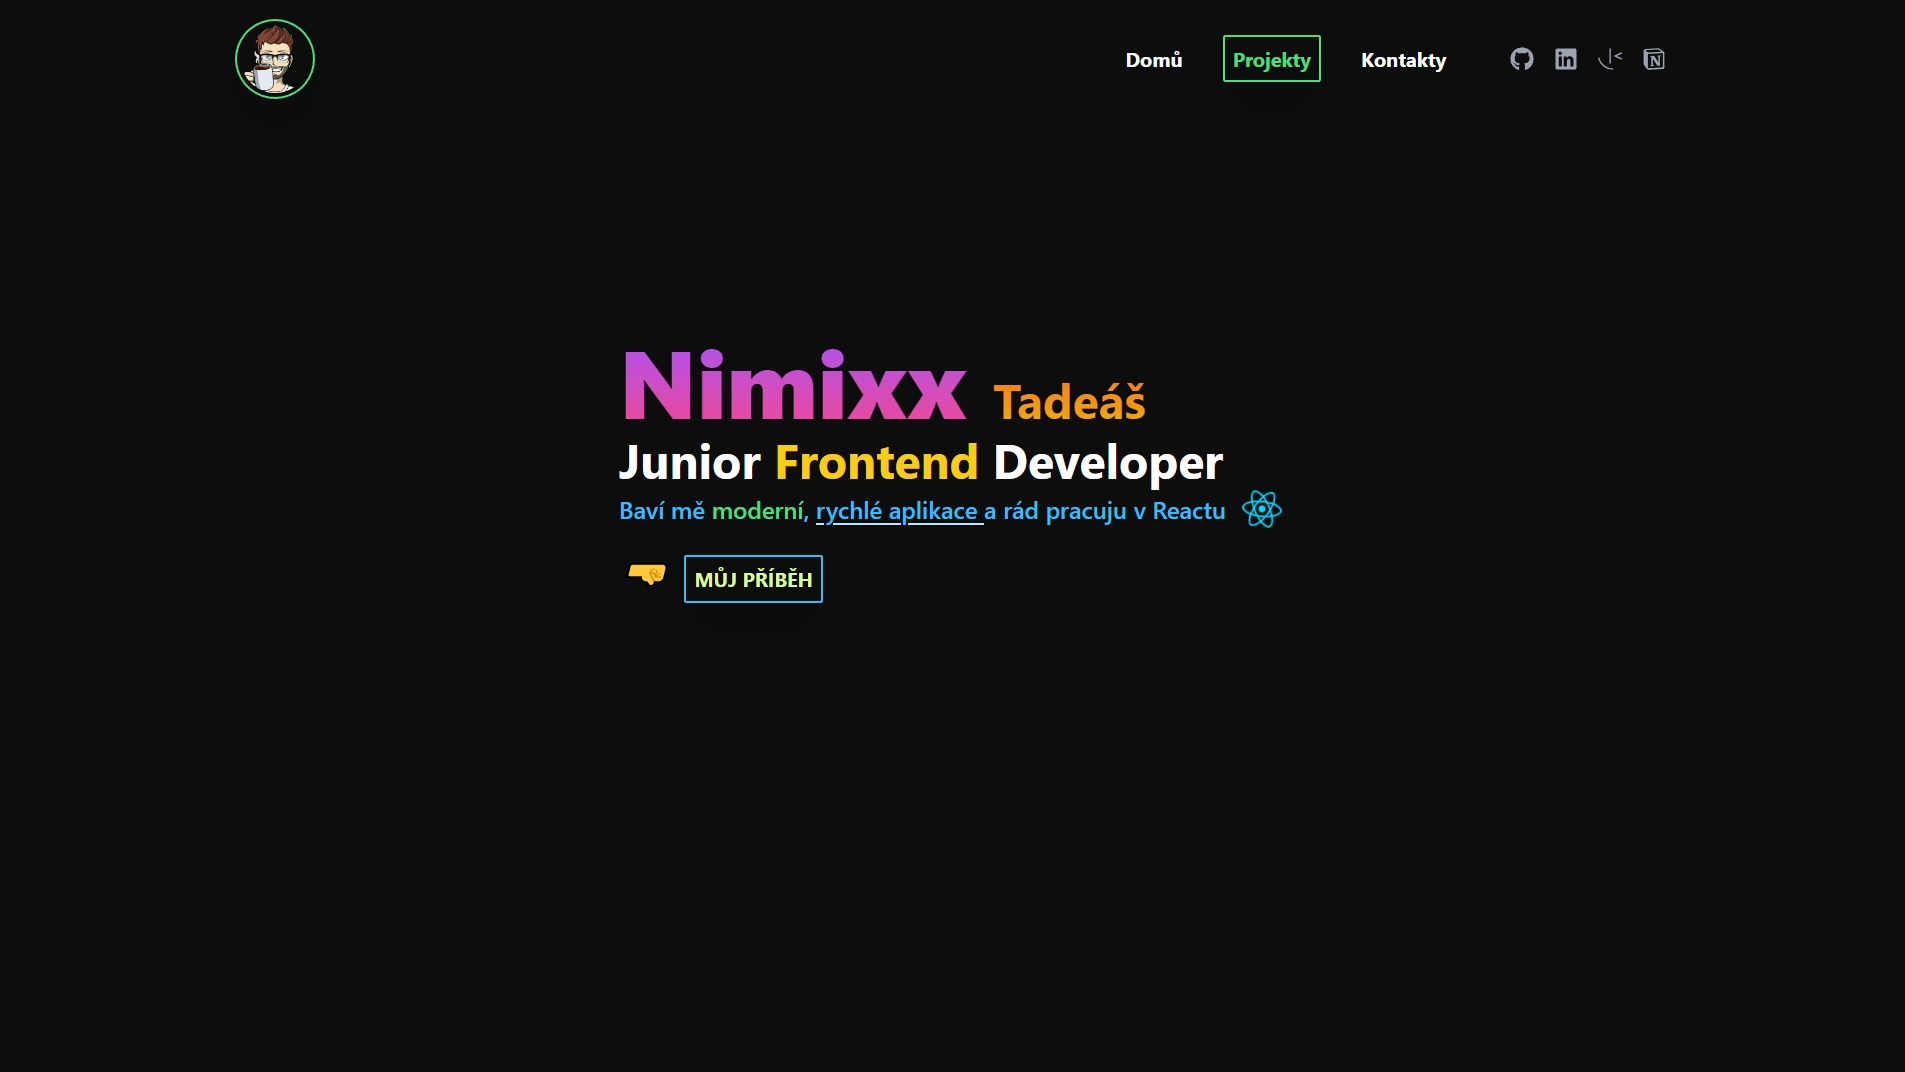
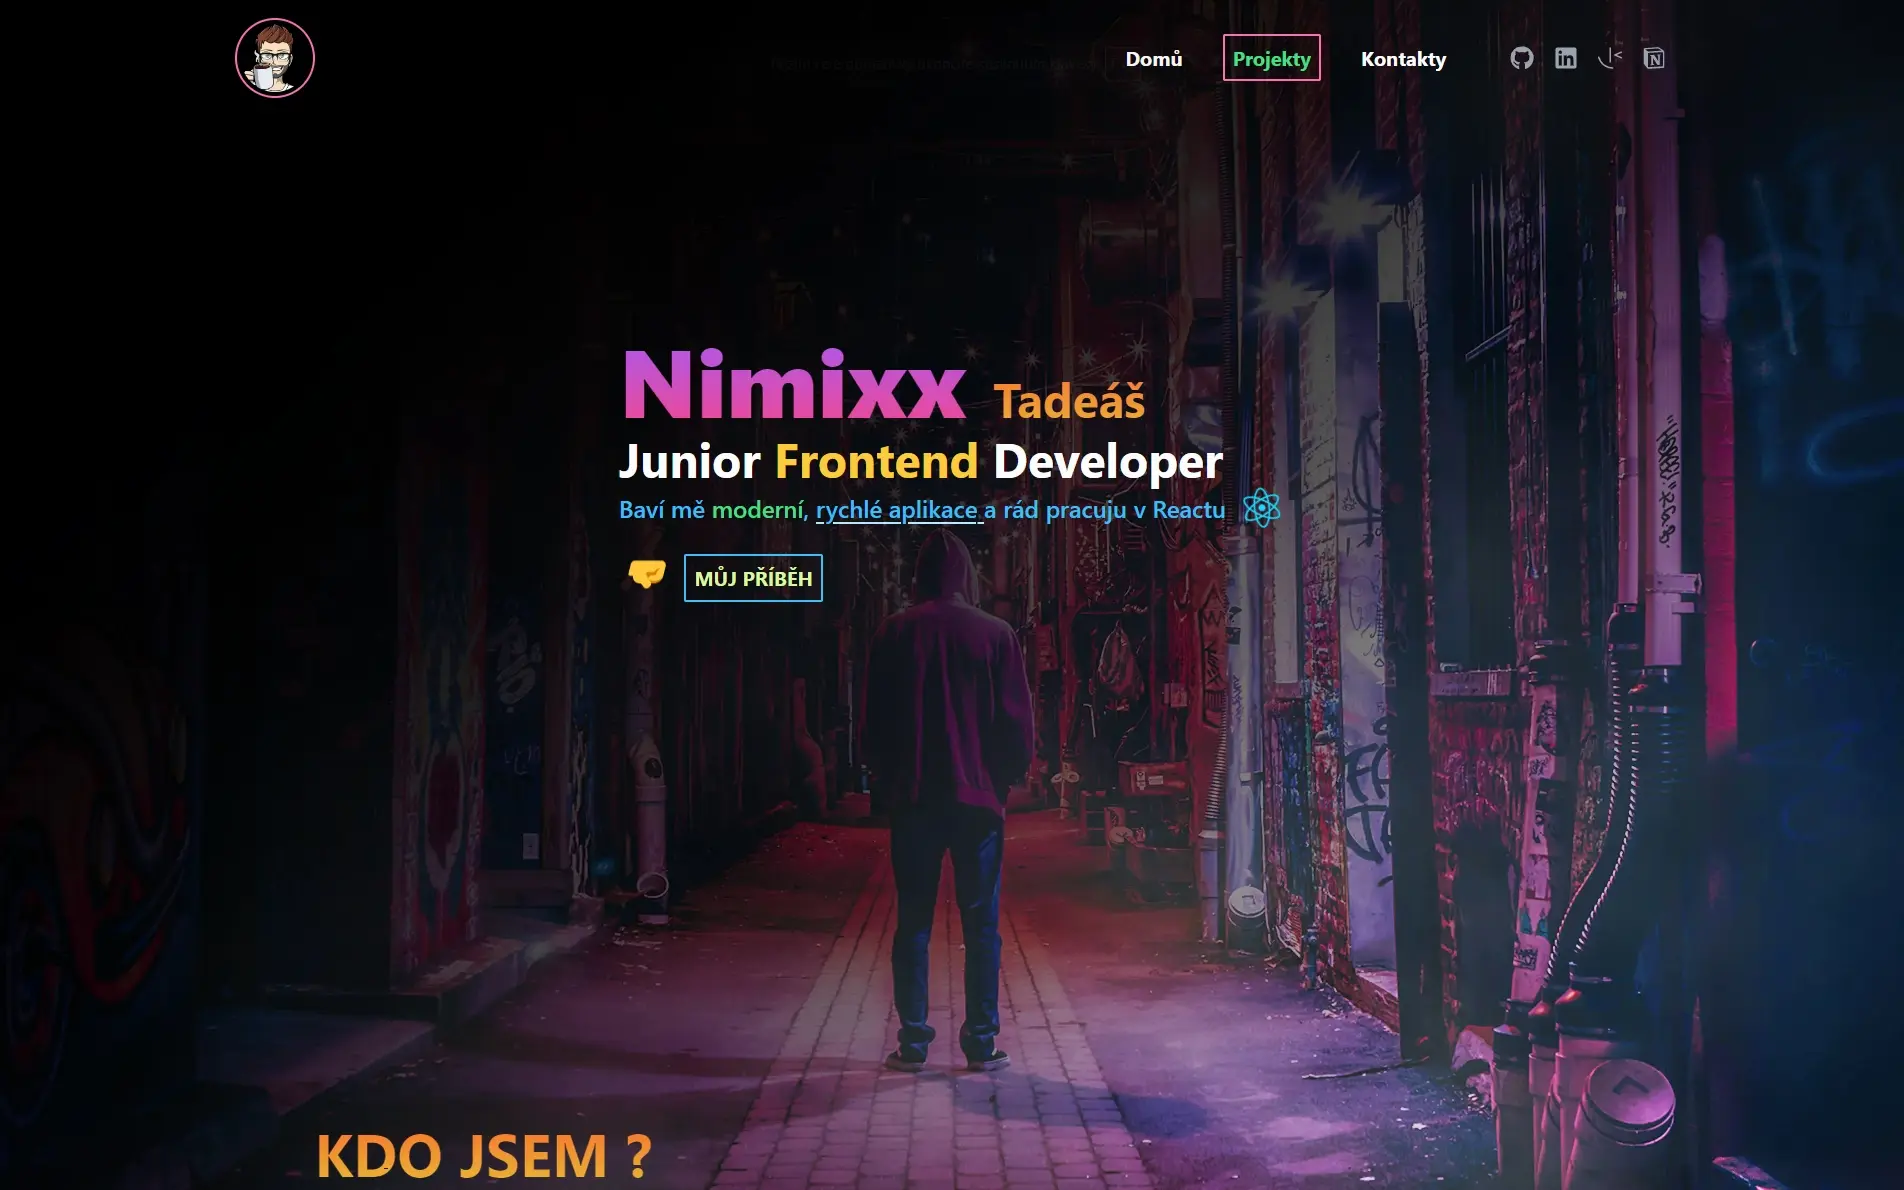
Edit backdrop

diff --git a/src/pages/Underlinepage.tsx b/src/pages/Underlinepage.tsx
@@ -32,7 +32,7 @@ export default function UnderlinePage() {
             Underline Videoproduction
           </h2>
           <h3 className="orange-yellow tertiary__heading">Úvod</h3>
-          <p className="text-gray-400 text-lg">
+          <p className="text-gray-200 text-lg">
             Při tvorbě stránky pro prezentaci mých projektů a informací o mně
             jsem zvolil jasnou strategii. Udělat stránku co možná nejvíc
             jednoduchou, tak aby vše bylo hned po ruce a nikdo nemusel prohlížet
@@ -40,7 +40,7 @@ export default function UnderlinePage() {
             na mě. Z toho důvodu stránka neobsahuje prakticky ani žádnou
             navigaci a celý layout je v jednotném designu.
           </p>
-          <p className="text-gray-400 text-lg">
+          <p className="text-gray-200 text-lg">
             Vše se odehrává na hlavní stránce, kde je možné najít veškeré
             potřebné informace o mně. Místo navigačního menu jsou pouze linky na
             důležité sociální sítě a můj Github.
@@ -48,10 +48,10 @@ export default function UnderlinePage() {
           <img
             src={UnderlineWeb}
             alt=""
-            className="rounded-xl my-5 outline  outline-2 outline-blue-400/50 shadow-lg shadow-blue-400/20"
+            className="rounded-xl my-5 outline  outline-2 outline-blue-400/50 shadow-lg shadow-blue-400/50"
           />
           <h3 className="lime-green project__heading">Postup</h3>
-          <p className="text-gray-400 text-lg">
+          <p className="text-gray-200 text-lg">
             Řešení pro moji webovou stránku bylo jasné už od začátku. Rád
             pracuji v Reactu a rozhodně rád styluju pomocí TailwidCSS. Zároveň
             jsem chtěl udržet kód co možná nejmenší, ale také dobře

diff --git a/src/pages/Nimixxpage.tsx b/src/pages/Nimixxpage.tsx
@@ -32,7 +32,7 @@ export default function UnderlinePage() {
             Underline Videoproduction
           </h2>
           <h3 className="orange-yellow tertiary__heading">Úvod</h3>
-          <p className="text-gray-400 text-lg">
+          <p className="text-gray-200 text-lg">
             Při tvorbě stránky pro prezentaci mých projektů a informací o mně
             jsem zvolil jasnou strategii. Udělat stránku co možná nejvíc
             jednoduchou, tak aby vše bylo hned po ruce a nikdo nemusel prohlížet
@@ -40,7 +40,7 @@ export default function UnderlinePage() {
             na mě. Z toho důvodu stránka neobsahuje prakticky ani žádnou
             navigaci a celý layout je v jednotném designu.
           </p>
-          <p className="text-gray-400 text-lg">
+          <p className="text-gray-200 text-lg">
             Vše se odehrává na hlavní stránce, kde je možné najít veškeré
             potřebné informace o mně. Místo navigačního menu jsou pouze linky na
             důležité sociální sítě a můj Github.
@@ -48,10 +48,10 @@ export default function UnderlinePage() {
           <img
             src={NimixxWeb}
             alt=""
-            className="rounded-xl my-5 outline  outline-2 outline-pink-400/50 shadow-lg shadow-pink-400/20"
+            className="rounded-xl my-5 outline  outline-2 outline-pink-400/50 shadow-lg shadow-pink-400/50"
           />
           <h3 className="lime-green project__heading">Postup</h3>
-          <p className="text-gray-400 text-lg">
+          <p className="text-gray-200 text-lg">
             Řešení pro moji webovou stránku bylo jasné už od začátku. Rád
             pracuji v Reactu a rozhodně rád styluju pomocí TailwidCSS. Zároveň
             jsem chtěl udržet kód co možná nejmenší, ale také dobře

diff --git a/src/index.css b/src/index.css
@@ -4,7 +4,7 @@ Scrollbar
 */
 :root {
   --primary: #171a1d;
-  --secondary: #30aa8c;
+  --secondary: #f475ff;
 }
 
 /* Firefox */
@@ -81,8 +81,8 @@ Scrollbar
   /* 
   Borders
   */
-  .border-2-solid-green-400 {
-    @apply border-solid border-2 border-green-400;
+  .border-2-solid-pink-400 {
+    @apply border-solid border-2 border-pink-400;
   }
   /* 
   Heading system
@@ -130,7 +130,7 @@ Scrollbar
     @apply mt-5 text-lime-200 font-bold text-xl uppercase rounded-sm border-solid border-2 border-sky-400 p-2  duration-500 ease-in-out shadow-2xl hover:shadow-sky-300/50 hover:rounded-lg;
   }
   .project__btn {
-    @apply text-green-400 rounded-sm border-solid border-2 border-green-400 p-2 hover:bg-green-400 duration-500 ease-in-out hover:text-gray-900 shadow-2xl hover:shadow-green-300/50 hover:rounded-lg;
+    @apply text-green-400 rounded-sm border-solid border-2 border-pink-400 p-2 hover:bg-pink-400/10 duration-500 ease-in-out  shadow-2xl hover:shadow-pink-200 hover:rounded-lg;
   }
   /* 
   Links system
@@ -162,7 +162,7 @@ Scrollbar
 Card system
 */
 .project__card {
-  @apply w-80 bg-black-500 shadow-xl shadow-black-900 rounded-xl hover:scale-110 duration-500 ease-in-out outline outline-transparent outline-offset-4;
+  @apply w-80 shadow-xl shadow-black-900 rounded-xl hover:scale-110 duration-500 ease-in-out outline outline-transparent outline-offset-4;
 }
 /* 
 Tailwind CSS Fix

diff --git a/src/components/Projects/Projects/Sidebars/Underline/DekstopSidebar.tsx b/src/components/Projects/Projects/Sidebars/Underline/DekstopSidebar.tsx
@@ -14,7 +14,7 @@ export default function DesktopSidebar() {
       initial={{ opacity: 0, translateX: -60 }}
       whileInView={{ opacity: 1, translateX: 0 }}
       transition={{ duration: 0.3 }}
-      className="w-full xl:w-72 xl:pb-5 rounded-xl hidden xl:flex items-center gap-8 flex-col outline outline-2 outline-blue-400 bg-blue-400/5 shadow-xl shadow-blue-400/20 "
+      className="w-full xl:w-72 xl:pb-5 rounded-xl hidden xl:flex items-center gap-8 flex-col outline outline-2 outline-blue-400 bg-blue-400/10 backdrop-blur-sm shadow-xl shadow-blue-400/50 "
     >
       <img src={UnderlineImg} alt="" className="rounded-tl-xl rounded-tr-xl" />
       <div className="grid grid-rows-7 grid-cols-1 gap-8">

diff --git a/src/components/Projects/Projects/Sidebars/Nimixx/DesktopSidebar.tsx b/src/components/Projects/Projects/Sidebars/Nimixx/DesktopSidebar.tsx
@@ -14,7 +14,7 @@ export default function DesktopSidebar() {
       initial={{ opacity: 0, translateX: -60 }}
       whileInView={{ opacity: 1, translateX: 0 }}
       transition={{ duration: 0.3 }}
-      className="w-full xl:w-72 xl:pb-5 rounded-xl hidden xl:flex items-center gap-8 flex-col outline outline-2 outline-pink-400 bg-pink-400/5 shadow-xl shadow-pink-400/20 "
+      className="w-full xl:w-72 xl:pb-5 rounded-xl hidden xl:flex items-center gap-8 flex-col outline outline-2 outline-pink-400 bg-pink-400/10 backdrop-blur-sm shadow-xl shadow-pink-400/50"
     >
       <img src={UnderlineImg} alt="" className="rounded-tl-xl rounded-tr-xl" />
       <div className="grid grid-rows-7 grid-cols-1 gap-8">

diff --git a/src/components/Projects/Challenges/QRCode.tsx b/src/components/Projects/Challenges/QRCode.tsx
@@ -4,7 +4,7 @@ import QRCodImg from '../../../assets/QRCode.webp';
 export default function QrCode() {
   return (
     <a
-      className="min-h-96 project__card hover:shadow-lime-200 hover:outline-lime-200"
+      className="min-h-96 project__card hover:shadow-lime-200 hover:outline-lime-200 bg-sky-800/30 backdrop-blur-sm"
       href="https://nimixx.github.io/QR-Code/"
       target="_blank"
       rel="noreferrer"

diff --git a/src/components/Navigation/Avatar.tsx b/src/components/Navigation/Avatar.tsx
@@ -6,7 +6,7 @@ export default function Avatar() {
   return (
     <>
       <img
-        className="w-20 p-1 rounded-full border-2-solid-green-400 shadow-2xl hover:shadow-green-300/50 duration500"
+        className="w-20 p-1 rounded-full border-2-solid-pink-400 shadow-2xl hover:shadow-pink-300 hover:bg-pink-300/10 duration500"
         src={AvatarImg}
         alt=""
       />

diff --git a/src/components/Projects/Projects/Cards/Underline.tsx b/src/components/Projects/Projects/Cards/Underline.tsx
@@ -7,7 +7,7 @@ export default function Underline() {
   return (
     <Link
       to={`/projects/underline`}
-      className="min-h-96 project__card hover:shadow-sky-700 hover:outline-sky-400"
+      className="min-h-96 project__card hover:shadow-sky-700 hover:outline-sky-400 bg-sky-800/30 backdrop-blur-sm"
     >
       <div className="w-80 h-44">
         <img

diff --git a/src/components/Projects/Projects/Cards/Nimixx.tsx b/src/components/Projects/Projects/Cards/Nimixx.tsx
@@ -7,7 +7,7 @@ export default function Nimixx() {
   return (
     <Link
       to={`/projects/nimixx`}
-      className="min-h-96 project__card hover:shadow-pink-700 hover:outline-pink-400"
+      className="min-h-96 project__card hover:shadow-pink-700 hover:outline-pink-400 bg-pink-800/30 backdrop-blur-sm"
     >
       <div className="w-80 h-44">
         <img

diff --git a/src/components/Projects/Projects/Cards/Wade.tsx b/src/components/Projects/Projects/Cards/Wade.tsx
@@ -7,7 +7,7 @@ export default function Wade() {
   return (
     <Link
       to={`/projects/nimixx`}
-      className="min-h-96 project__card hover:shadow-pink-700 hover:outline-pink-400"
+      className="min-h-96 project__card hover:shadow-pink-700 hover:outline-pink-400 bg-pink-800/30 backdrop-blur-sm"
     >
       <div className="w-80 h-44">
         <img
